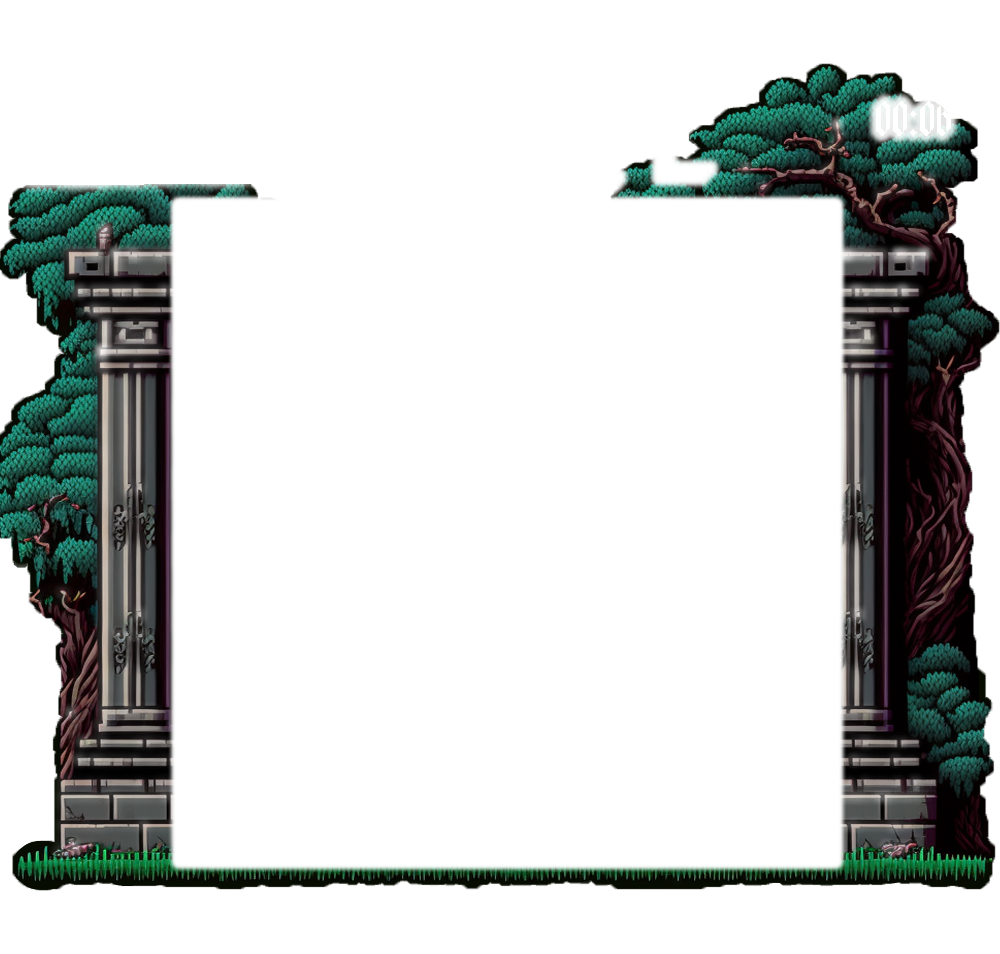
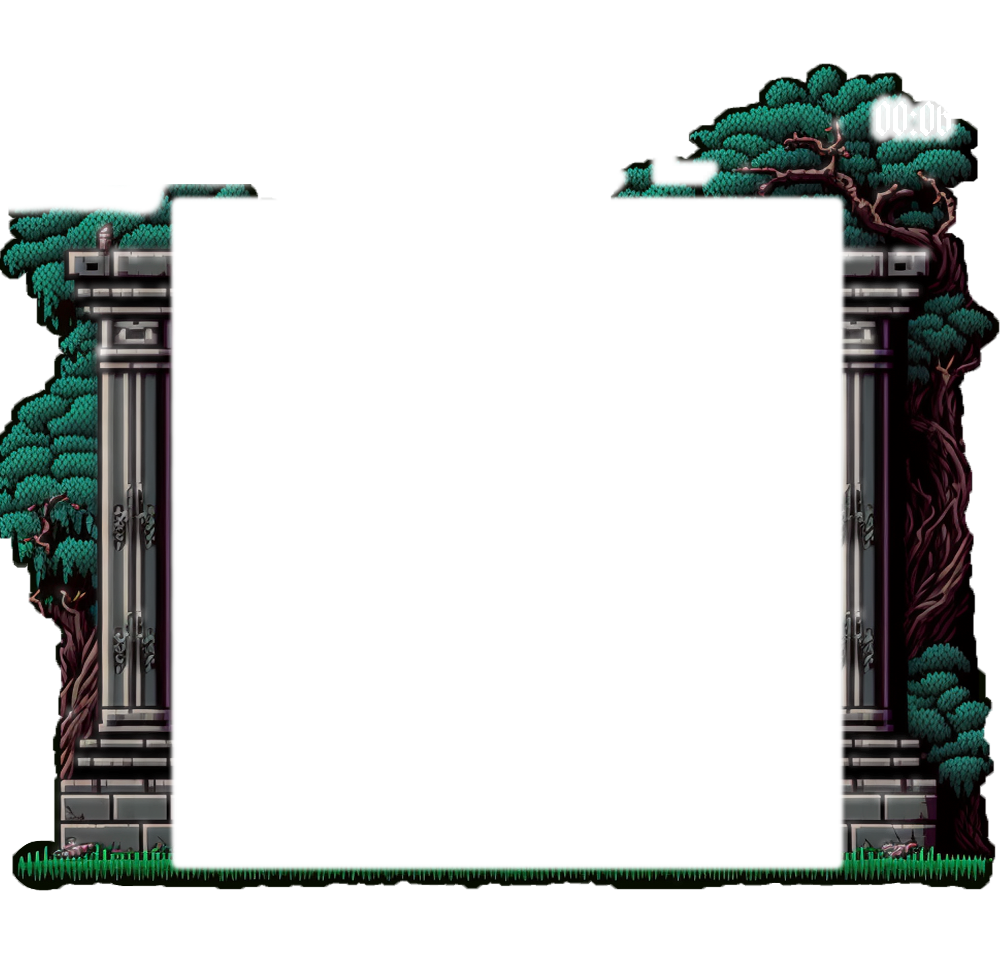
save config stuff, is a game now

Changed region(s): [[0.0, 0.1824, 0.186, 0.2432]]

diff --git a/Snake/snake_game.py b/Snake/snake_game.py
@@ -79,11 +79,8 @@ def home_screen():
                     homescreen = False
                     return
                 if 415 + 300 > mouse[0] > 415 and 380 + 80 > mouse[1] > 380: #LOAD GAME
-                    save_file1 = font.render(f'File 1:', True, (255, 255, 255))
-                    save_file2 = font.render(f'File 2:', True, (255, 255, 255))
-                    save_file3 = font.render(f'File 3:', True, (255, 255, 255))
 
-                    pause_background = pygame.image.load('/Users/apple/Snake-Game/Snake/Assets/pause screen.png')
+                    pause_background = pygame.image.load('/Users/apple/Snake-Game/Snake/Assets/pause screen long.png')
                     sub_screen = pygame.Surface((1000,1000))
                     sub_screen.fill(BLACK)
                     gameDisplay.blit(sub_screen, (0, 0))
@@ -91,34 +88,35 @@ def home_screen():
                     gameDisplay.blit(background, [0,-35])
                     gameDisplay.blit(game_text, [305, 25])
                     gameDisplay.blit(start_button, [420, 240])
-                    gameDisplay.blit(pause_background, [0, -35])
-                    gameDisplay.blit(save_file1, (390,390))
-                    gameDisplay.blit(save_file2, (390,490))
-                    gameDisplay.blit(save_file3, (390,590))
+                    gameDisplay.blit(pause_background, [0, 25])
 
                     with open(file_path1, "rb") as file:
                         data = pickle.load(file)
                     save_file1_tokens = font3.render(f'tokens: {data[0].tokens}', True, (255, 255, 255)) 
                     save_file1_score = font3.render(f'score: {data[3]}', True, (255, 255, 255))
+                    save_file1_saves = font3.render(f'saves left: {data[9]}', True, (255, 255, 255))
 
                     with open(file_path2, "rb") as file:
                         data = pickle.load(file)
                     save_file2_tokens = font3.render(f'tokens: {data[0].tokens}', True, (255, 255, 255)) 
                     save_file2_score = font3.render(f'score: {data[3]}', True, (255, 255, 255))
+                    save_file2_saves = font3.render(f'saves left: {data[9]}', True, (255, 255, 255))
 
                     with open(file_path3, "rb") as file:
                         data = pickle.load(file)
                     save_file3_tokens = font3.render(f'tokens: {data[0].tokens}', True, (255, 255, 255)) 
                     save_file3_score = font3.render(f'score: {data[3]}', True, (255, 255, 255))
+                    save_file3_saves = font3.render(f'saves left: {data[9]}', True, (255, 255, 255))
 
-                    gameDisplay.blit(save_file1_tokens, (500,415))
-                    gameDisplay.blit(save_file1_score, (500,380))
-
-                    gameDisplay.blit(save_file2_tokens, (500,515))
-                    gameDisplay.blit(save_file2_score, (500,480))
-
-                    gameDisplay.blit(save_file3_tokens, (500,615))
-                    gameDisplay.blit(save_file3_score, (500,580))
+                    render_saves(save_file1_tokens,
+                                save_file1_score,
+                                save_file1_saves,
+                                save_file2_tokens,
+                                save_file2_score,
+                                save_file2_saves,
+                                save_file3_tokens,
+                                save_file3_score,
+                                save_file3_saves)
 
                     pygame.mixer.music.load(start_noise)
                     pygame.mixer.music.play(0)
@@ -133,7 +131,7 @@ def home_screen():
                         for event in pygame.event.get():
                             mouse = pygame.mouse.get_pos()
                             if event.type == pygame.MOUSEBUTTONUP and event.button == 1:
-                                if 478 + 110 > mouse[0] > 478 and 387 + 50 > mouse[1] > 387: #START GAME
+                                if 390 + 110 > mouse[0] > 390 and 320 + 50 > mouse[1] > 320: #START GAME
                                     pygame.mixer.music.load(start_noise)
                                     pygame.mixer.music.play(0)
                                     homescreen = False
@@ -141,26 +139,27 @@ def home_screen():
                                     game_loaded = True
                                     file_path = file_path1
                                     return file_path
-                                elif 478 + 110 > mouse[0] > 478 and 487 + 50 > mouse[1] > 387: #START GAME
+                                elif 390 + 110 > mouse[0] > 390 and 460 + 50 > mouse[1] > 467: #START GAME
                                     pygame.mixer.music.load(start_noise)
                                     pygame.mixer.music.play(0)
                                     homescreen = False
                                     game_loaded = True                                
                                     file_path = file_path2
+                                    print('pressed')
                                     return file_path
-                                elif 478 + 110 > mouse[0] > 478 and 587 + 50 > mouse[1] > 387: #START GAME
+                                elif 390 + 110 > mouse[0] > 390 and 610 + 50 > mouse[1] > 610: #START GAME
                                     pygame.mixer.music.load(start_noise)
                                     pygame.mixer.music.play(0)
                                     homescreen = False
                                     game_loaded = True                               
                                     file_path = file_path3
                                     return file_path
-                            if (event.type == pygame.KEYDOWN and event.key == pygame.K_TAB or event.type == pygame.MOUSEBUTTONUP and event.button == 1):
+                            if (event.type == pygame.KEYDOWN and event.key == pygame.K_TAB):
                                 pause = False
                                 load_game_bool = False
 
 
-def pause_screen():
+def pause_screen(saves_left):
 
     home = False
 
@@ -198,34 +197,23 @@ def pause_screen():
                     home = True
                     pause = False
                 if 430 + 300 > mouse[0] > 420 and 590 + 80 > mouse[1] > 590: #SAVE GAME
-                    pause_background = pygame.image.load('/Users/apple/Snake-Game/Snake/Assets/pause screen.png')
+                    pause_background = pygame.image.load('/Users/apple/Snake-Game/Snake/Assets/pause screen long.png')
                     sub_screen = pygame.Surface((395, 395))
                     sub_screen.fill(BLACK)
                     gameDisplay.blit(sub_screen, [310, 310])
-                    gameDisplay.blit(pause_background, [0, -35])
-                    save_file1 = font.render(f'File 1:', True, (255, 255, 255))
-                    save_file2 = font.render(f'File 2:', True, (255, 255, 255))
-                    save_file3 = font.render(f'File 3:', True, (255, 255, 255))
+                    gameDisplay.blit(pause_background, [-7, 45])
 
-
-                    gameDisplay.blit(save_file1, (390,390))
-                    gameDisplay.blit(save_file2, (390,490))
-                    gameDisplay.blit(save_file3, (390,590))
-
-                    gameDisplay.blit(save_file1_tokens, (500,415))
-                    gameDisplay.blit(save_file1_score, (500,380))
-
-                    gameDisplay.blit(save_file2_tokens, (500,515))
-                    gameDisplay.blit(save_file2_score, (500,480))
-
-                    gameDisplay.blit(save_file3_tokens, (500,615))
-                    gameDisplay.blit(save_file3_score, (500,580))
+                    render_saves(save_file1_tokens,
+                                save_file1_score,
+                                save_file1_saves,
+                                save_file2_tokens,
+                                save_file2_score,
+                                save_file2_saves,
+                                save_file3_tokens,
+                                save_file3_score,
+                                save_file3_saves)
+                    
                     pygame.mixer.music.play(0)
-                    pygame.display.update()
-
-                    pygame.draw.rect(gameDisplay, BLACK, (478, 387, 110, 50), 0)
-                    pygame.draw.rect(gameDisplay, BLACK, (478, 487, 110, 50), 0)
-                    pygame.draw.rect(gameDisplay, BLACK, (478, 587, 110, 50), 0)
 
                     save_pause = True
 
@@ -238,40 +226,81 @@ def pause_screen():
                                     home = True
                                     save_pause = False
                                     pause = False
-                                if 478 + 110 > mouse[0] > 478 and 387 + 50 > mouse[1] > 387: #START GAME
+                                if 390 + 110 > mouse[0] > 390 and 320 + 50 > mouse[1] > 320 and saves_left > 0: #Save File 1
                                     pygame.mixer.music.play(0)
-                                    save_game(file_path1, snake, framerate, multiplier, food_counter, score, elapsed_time, food_pos, token_pos, body_count, if_statement_run)
+                                    saves_left -= 1
+                                    save_game(file_path1, snake, framerate, multiplier, food_counter, score, elapsed_time, food_pos, token_pos, body_count, saves_left, if_statement_run)
                                     break
-                                elif 478 + 110 > mouse[0] > 478 and 487 + 50 > mouse[1] > 387: #START GAME
+                                elif 390 + 110 > mouse[0] > 390 and 460 + 50 > mouse[1] > 460 and saves_left > 0: #Save File 2
                                     pygame.mixer.music.play(0)
-                                    save_game(file_path2, snake, framerate, multiplier, food_counter, score, elapsed_time, food_pos, token_pos, body_count, if_statement_run)
+                                    saves_left -= 1
+                                    save_game(file_path2, snake, framerate, multiplier, food_counter, score, elapsed_time, food_pos, token_pos, body_count, saves_left, if_statement_run)
                                     break
-                                elif 478 + 110 > mouse[0] > 478 and 587 + 50 > mouse[1] > 387: #START GAME
+                                elif 390 + 110 > mouse[0] > 390 and 610 + 50 > mouse[1] > 610 and saves_left > 0: #Save File 3
                                     pygame.mixer.music.play(0)
-                                    save_game(file_path3, snake, framerate, multiplier, food_counter, score, elapsed_time, food_pos, token_pos, body_count, if_statement_run)
+                                    saves_left -= 1
+                                    print(saves_left)
+                                    save_game(file_path3, snake, framerate, multiplier, food_counter, score, elapsed_time, food_pos, token_pos, body_count, saves_left, if_statement_run)
                                     break
+                                elif saves_left == 0:
+                                    pygame.mixer.music.load('/Users/apple/Snake-Game/Snake/Assets/snake collision.wav')
+                                    pygame.mixer.music.play(0)
+                                    out_of_saves = font3.render(f'No More Saves!', True, WHITE)
+                                    gameDisplay.blit(out_of_saves, (425,350))
+                                    pygame.display.update()
                             if (event.type == pygame.KEYDOWN and event.key == pygame.K_TAB):
                                 save_pause = False
                 
             if (event.type == pygame.KEYDOWN and event.key == pygame.K_TAB):
                 pause = False
 
-    return home
+    return home, saves_left
 
-def save_game(file_path, snake, framerate, multiplier, food_counter, score, elapsed_time, food_pos, token_pos, body_count, if_statement_run):
+def save_game(file_path, snake, framerate, multiplier, food_counter, score, elapsed_time, food_pos, token_pos, body_count, saves_left, if_statement_run):
     pygame.mixer.music.load('/Users/apple/Snake-Game/Snake/Assets/snake pause.wav')
     pygame.mixer.music.play(0)
     with open(file_path, "wb") as file:
-        data = (snake, framerate, multiplier, food_counter, score, elapsed_time, food_pos, token_pos, body_count, if_statement_run)
+        data = (snake, framerate, multiplier, food_counter, score, elapsed_time, food_pos, token_pos, body_count,saves_left, if_statement_run)
         pickle.dump(data, file)
 
 def load_game(file_path):
     with open(file_path, "rb") as file:
         # Load the binary file and restore the grid, score, and food_location variables
-        snake, framerate, multiplier, food_counter, score, elapsed_time, food_pos, token_pos, body_count, if_statement_run = pickle.load(file)
-    return snake, framerate, multiplier, food_counter, score, elapsed_time, food_pos, token_pos, body_count, if_statement_run
+        snake, framerate, multiplier, food_counter, score, elapsed_time, food_pos, token_pos, body_count, saves_left, if_statement_run = pickle.load(file)
+    return snake, framerate, multiplier, food_counter, score, elapsed_time, food_pos, token_pos, body_count, saves_left, if_statement_run
 
-# def save_screen():
+def render_saves(
+save_file1_tokens,
+save_file1_score,
+save_file1_saves,
+save_file2_tokens,
+save_file2_score,
+save_file2_saves,
+save_file3_tokens,
+save_file3_score,
+save_file3_saves):
+    save_file1 = font.render(f'File 1:', True, WHITE)
+    save_file2 = font.render(f'File 2:', True, WHITE)
+    save_file3 = font.render(f'File 3:', True, WHITE)
+
+
+    gameDisplay.blit(save_file1, (390,320))
+    gameDisplay.blit(save_file2, (390,460))
+    gameDisplay.blit(save_file3, (390,610))
+
+    gameDisplay.blit(save_file1_tokens, (500,290))
+    gameDisplay.blit(save_file1_score, (500,330))
+    gameDisplay.blit(save_file1_saves, (500,370))
+
+    gameDisplay.blit(save_file2_tokens, (500,430))
+    gameDisplay.blit(save_file2_score, (500,470))
+    gameDisplay.blit(save_file2_saves, (500,510))
+
+    gameDisplay.blit(save_file3_tokens, (500,580))
+    gameDisplay.blit(save_file3_score, (500,620))
+    gameDisplay.blit(save_file3_saves, (500,660))
+
+    pygame.display.update()
 
 
 def create_button(x, y, width, height, text):
@@ -422,6 +451,7 @@ pygame.mixer.music.load('/Users/apple/Snake-Game/Snake/Assets/snake loop.wav')
 
 first_key_pressed = False
 
+saves_left = 3
 elapsed_time = 0
 framerate = 20
 multiplier = 1
@@ -477,7 +507,7 @@ while not done:
                 pygame.mixer.music.play(-1)
                 first_key_pressed = True
             if event.key == pygame.K_TAB:
-                home = pause_screen()
+                home, saves_left = pause_screen(saves_left)
                 if home:
                     homescreen = True
             if event.key == pygame.K_UP:
@@ -513,6 +543,7 @@ while not done:
         first_key_pressed = False
         food_counter = 0
         body_count = 0
+        saves_left = 3
         snake = Snake()
 
     if snake.score < 20:
@@ -539,7 +570,6 @@ while not done:
         food_counter += 1
         pygame.mixer.music.load('/Users/apple/Snake-Game/Snake/Assets/token.wav')
         pygame.mixer.music.play(0)
-        print(snake.score)
         while snake.score % 3 == 1 and snake.score != 0:
             token_pos = (random.randint(0, 19), random.randint(0, 19))
             if token_pos not in snake.body and token_pos != food_pos:
@@ -557,7 +587,7 @@ while not done:
 
     
     if game_loaded:
-        snake, framerate, multiplier, food_counter, score, elapsed_time, food_pos, token_pos, body_count, if_statement_run = load_game(file)
+        snake, framerate, multiplier, food_counter, score, elapsed_time, food_pos, token_pos, body_count, saves_left, if_statement_run = load_game(file)
         game_loaded = False
 
     # Draw the grid
@@ -589,27 +619,32 @@ while not done:
     score_text = font.render("Score: " + str(score), True, WHITE)
     time_text = font.render("{:02d}:{:02d}".format(int(elapsed_time // 60), int(elapsed_time % 60)), True, WHITE)
     game_text = font2.render("SNAKE", True, WHITE)
-    token_text = font3.render("Tokens:" + str(snake.tokens), True, WHITE)
+    token_text = font3.render("Tokens: " + str(snake.tokens), True, WHITE)
+    save_text = font3.render("Saves left: " + str(saves_left), True, WHITE)
 
 
     with open(file_path1, "rb") as file:
         data = pickle.load(file)
     save_file1_tokens = font3.render(f'tokens: {data[0].tokens}', True, (255, 255, 255)) 
     save_file1_score = font3.render(f'score: {data[3]}', True, (255, 255, 255))
+    save_file1_saves = font3.render(f'saves left: {data[9]}', True, (255, 255, 255))
 
     with open(file_path2, "rb") as file:
         data = pickle.load(file)
     save_file2_tokens = font3.render(f'tokens: {data[0].tokens}', True, (255, 255, 255)) 
     save_file2_score = font3.render(f'score: {data[3]}', True, (255, 255, 255))
+    save_file2_saves = font3.render(f'saves left: {data[9]}', True, (255, 255, 255))
 
     with open(file_path3, "rb") as file:
         data = pickle.load(file)
     save_file3_tokens = font3.render(f'tokens: {data[0].tokens}', True, (255, 255, 255)) 
     save_file3_score = font3.render(f'score: {data[3]}', True, (255, 255, 255))
+    save_file3_saves = font3.render(f'saves left: {data[9]}', True, (255, 255, 255))
 
     # Display score and time
-    gameDisplay.blit(score_text, [50, 65])
-    gameDisplay.blit(token_text, [50, 125])
+    gameDisplay.blit(score_text, [50, 55])
+    gameDisplay.blit(token_text, [50, 110])
+    gameDisplay.blit(save_text, [50, 150])
     gameDisplay.blit(time_text, [875, 70])
     gameDisplay.blit(game_text, [320, 25])
     gameDisplay.blit(background, [0,-25])
